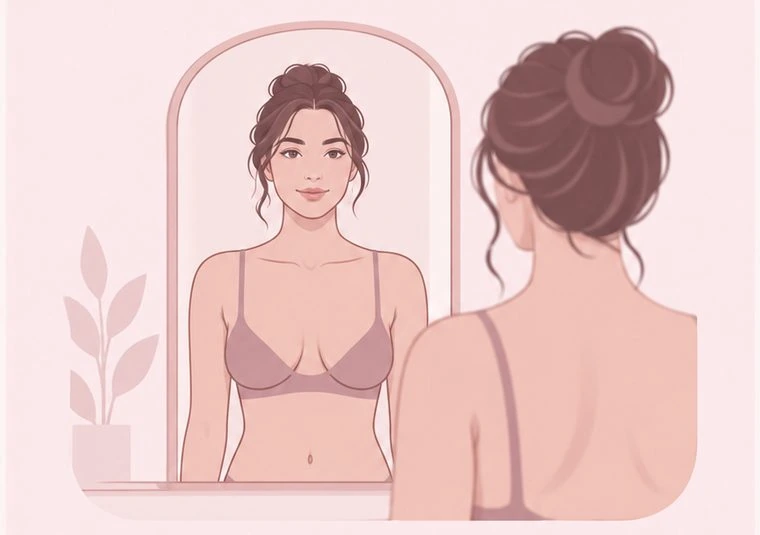
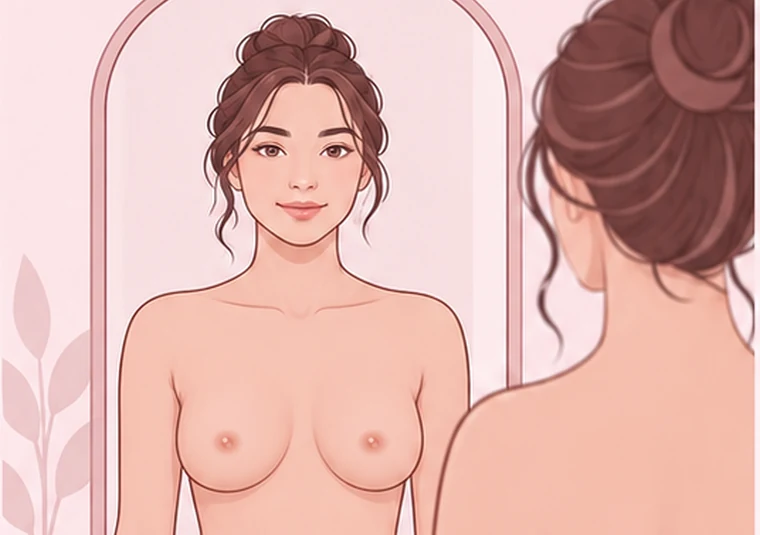
Replace steps 1 and 4 with the bare illustrations, nipples drawn in
Four of the five step illustrations showed a bra while the text beside
them said to look for nipple changes and to feel the tissue. Nicky got
the generator to draw 1 and 4 bare; it drew them with no nipples at
all, so step 1 was about to instruct readers to check for nipple
changes on a body that had none.

wip/add-nac.py draws the complex and is kept, because this will recur
for steps 2 and 5. Nothing is placed by eye: the mound is measured from
the artist's own contours and the complex sits at its centre biased
laterally, since the midpoint between inner and outer edges lands too
close to the sternum. Colour is sampled from the skin directly above
each site, so it stays in the illustration's palette rather than a tone
chosen by hand.

Step 4 needed occlusion. Her forearm crosses the nipple, so its upper
edge was traced column by column -- (150,875) rising to (294,786) --
and everything below that curve is erased from the layer. Without it
the areola floated on top of the arm, which is the artifact Nicky
spotted in an earlier attempt and correctly judged to be a drawing
error rather than mine.

Both are cropped to 760x535, the shape steps 2, 3 and 5 already use,
weighted to keep the head. That dissolves the square-versus-landscape
problem: it needed a crop, not a regeneration.

Steps 2 and 5 still show a bra. The lede already tells readers to
undress, so the page is not wrong, only inconsistent.

diff --git a/wip/add-nac.py b/wip/add-nac.py
@@ -1,0 +1,93 @@
+"""Draw a nipple-areola complex onto an illustration that was generated without one.
+
+The image generator will draw a bare chest but leaves the nipples off, which
+makes step 1 instruct the reader to look for "nipple changes" on a body that
+has none. This puts them back.
+
+Nothing is placed by eye. The mound is measured from the artist's own drawn
+contours and the complex goes at its centre, biased laterally -- the midpoint
+between the breast's inner and outer edges sits too far toward the sternum,
+because the medial side flattens. Nicky caught that immediately the first time.
+
+Colour is sampled from the skin directly above each site and shifted from
+there, so it lands in the illustration's own palette rather than a tone picked
+by hand. Structure follows images/add-areolae.py, which did the same job on the
+flat-closure diagram: concentric areola passes so the edge fades instead of
+ending on a line, then the nipple, then light from the upper left to match how
+the rest of the drawing is lit.
+
+`clip` takes a function x -> y and erases everything below that line, so a limb
+drawn over the breast still occludes the complex. Step 4 needs it: the forearm
+crosses the nipple, and without clipping the areola would float on top of the
+arm.
+"""
+from PIL import Image, ImageDraw, ImageFilter
+
+SS = 4  # supersample, so the soft edges survive being scaled back down
+
+
+def _shade(base, dr, dg, db):
+    return tuple(max(0, min(255, c + d)) for c, d in zip(base, (dr, dg, db)))
+
+
+def add_nac(im, spots, clip=None):
+    """spots: iterable of (cx, cy, areola_w, areola_h, nipple_w, nipple_h)."""
+    W, H = im.size
+    px = im.load()
+    lay = Image.new("RGBA", (W * SS, H * SS), (0, 0, 0, 0))
+    d = ImageDraw.Draw(lay)
+
+    for cx, cy, AW, AH, NW, NH in spots:
+        skin = px[cx, max(0, cy - 28)]
+
+        for s, dr, dg, db, a in ((1.00, -8, -30, -34, 100),
+                                 (0.84, -13, -41, -46, 145),
+                                 (0.68, -17, -50, -56, 180),
+                                 (0.52, -20, -57, -63, 210)):
+            w, h = AW * s, AH * s
+            d.ellipse([(cx - w / 2) * SS, (cy - h / 2) * SS,
+                       (cx + w / 2) * SS, (cy + h / 2) * SS],
+                      fill=_shade(skin, dr, dg, db) + (a,))
+
+        d.ellipse([(cx - NW / 2) * SS, (cy - NH / 2) * SS,
+                   (cx + NW / 2) * SS, (cy + NH / 2) * SS],
+                  fill=_shade(skin, -28, -72, -78) + (235,))
+        d.ellipse([(cx - NW * 0.36) * SS, (cy - NH * 0.48) * SS,
+                   (cx + NW * 0.04) * SS, (cy - NH * 0.02) * SS],
+                  fill=_shade(skin, 10, 16, 18) + (95,))
+        d.ellipse([(cx - NW * 0.06) * SS, (cy + NH * 0.04) * SS,
+                   (cx + NW * 0.42) * SS, (cy + NH * 0.50) * SS],
+                  fill=_shade(skin, -32, -80, -86) + (115,))
+
+    lay = lay.resize((W, H), Image.LANCZOS).filter(ImageFilter.GaussianBlur(0.35))
+
+    if clip is not None:
+        lp = lay.load()
+        for x in range(W):
+            edge = clip(x)
+            if edge is None:
+                continue
+            for y in range(int(edge), H):
+                r, g, b, a = lp[x, y]
+                if a:
+                    lp[x, y] = (r, g, b, 0)
+
+    out = im.convert("RGBA")
+    out.alpha_composite(lay)
+    return out.convert("RGB")
+
+
+def curve(points):
+    """Turn sampled {x: y} into a function, for use as `clip`."""
+    ks = sorted(points)
+
+    def f(x):
+        if x < ks[0] or x > ks[-1]:
+            return None
+        lo = max(k for k in ks if k <= x)
+        hi = min(k for k in ks if k >= x)
+        if lo == hi:
+            return points[lo]
+        return points[lo] + (points[hi] - points[lo]) * (x - lo) / (hi - lo)
+
+    return f
